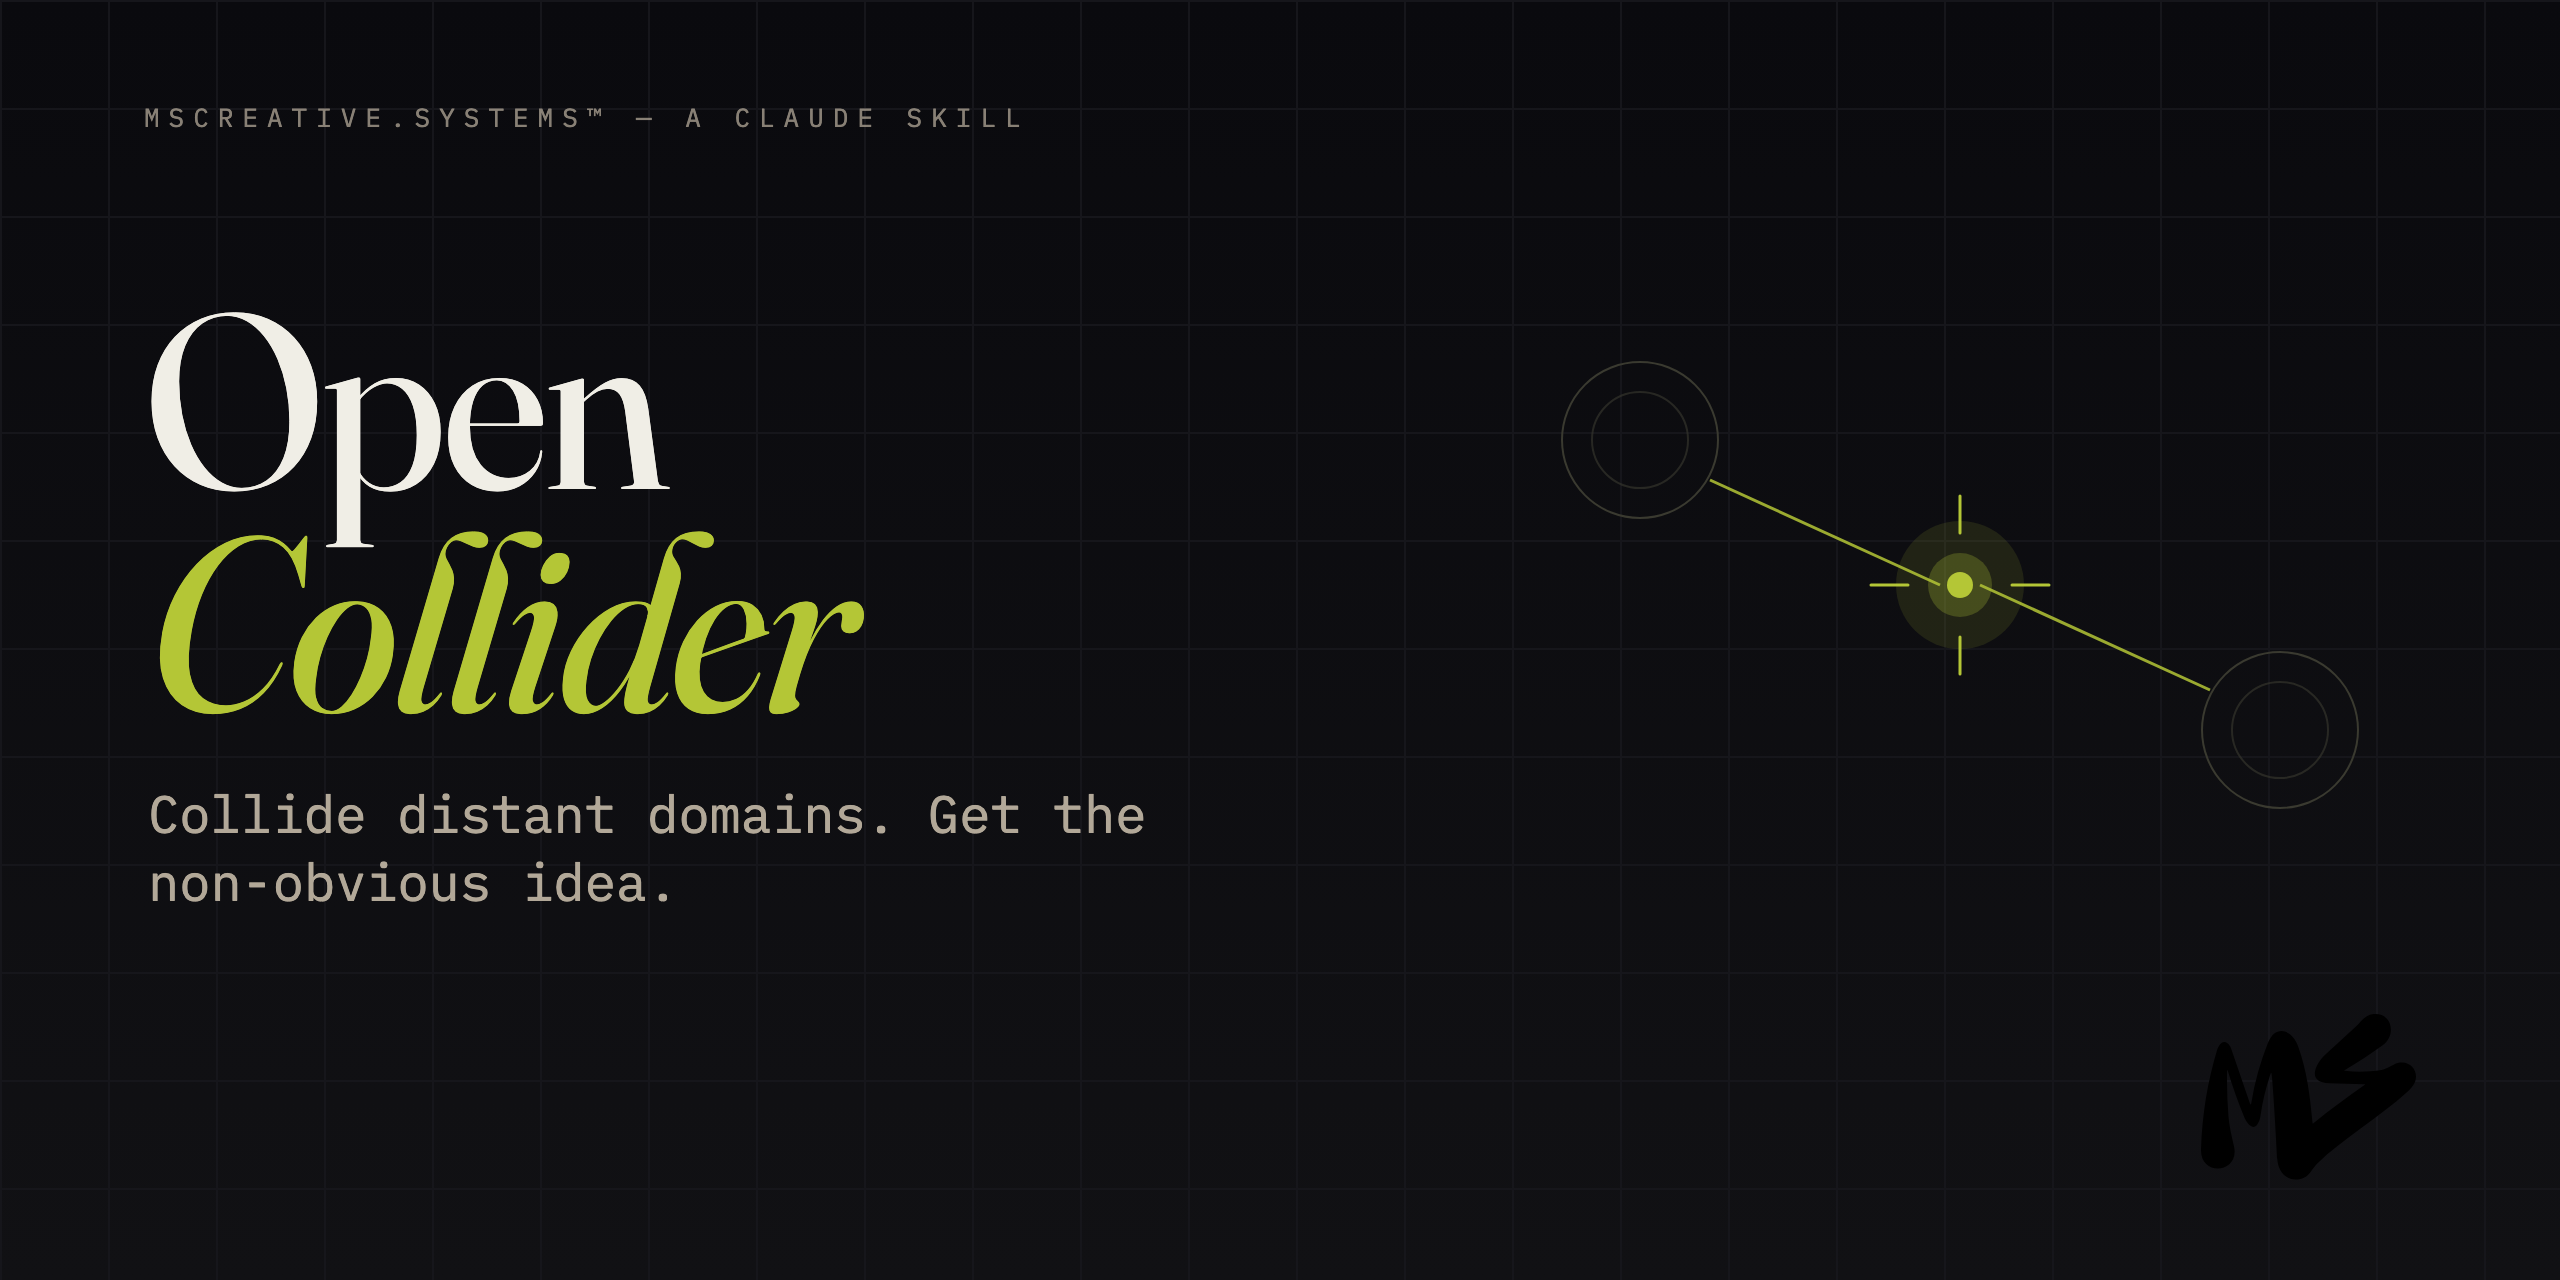
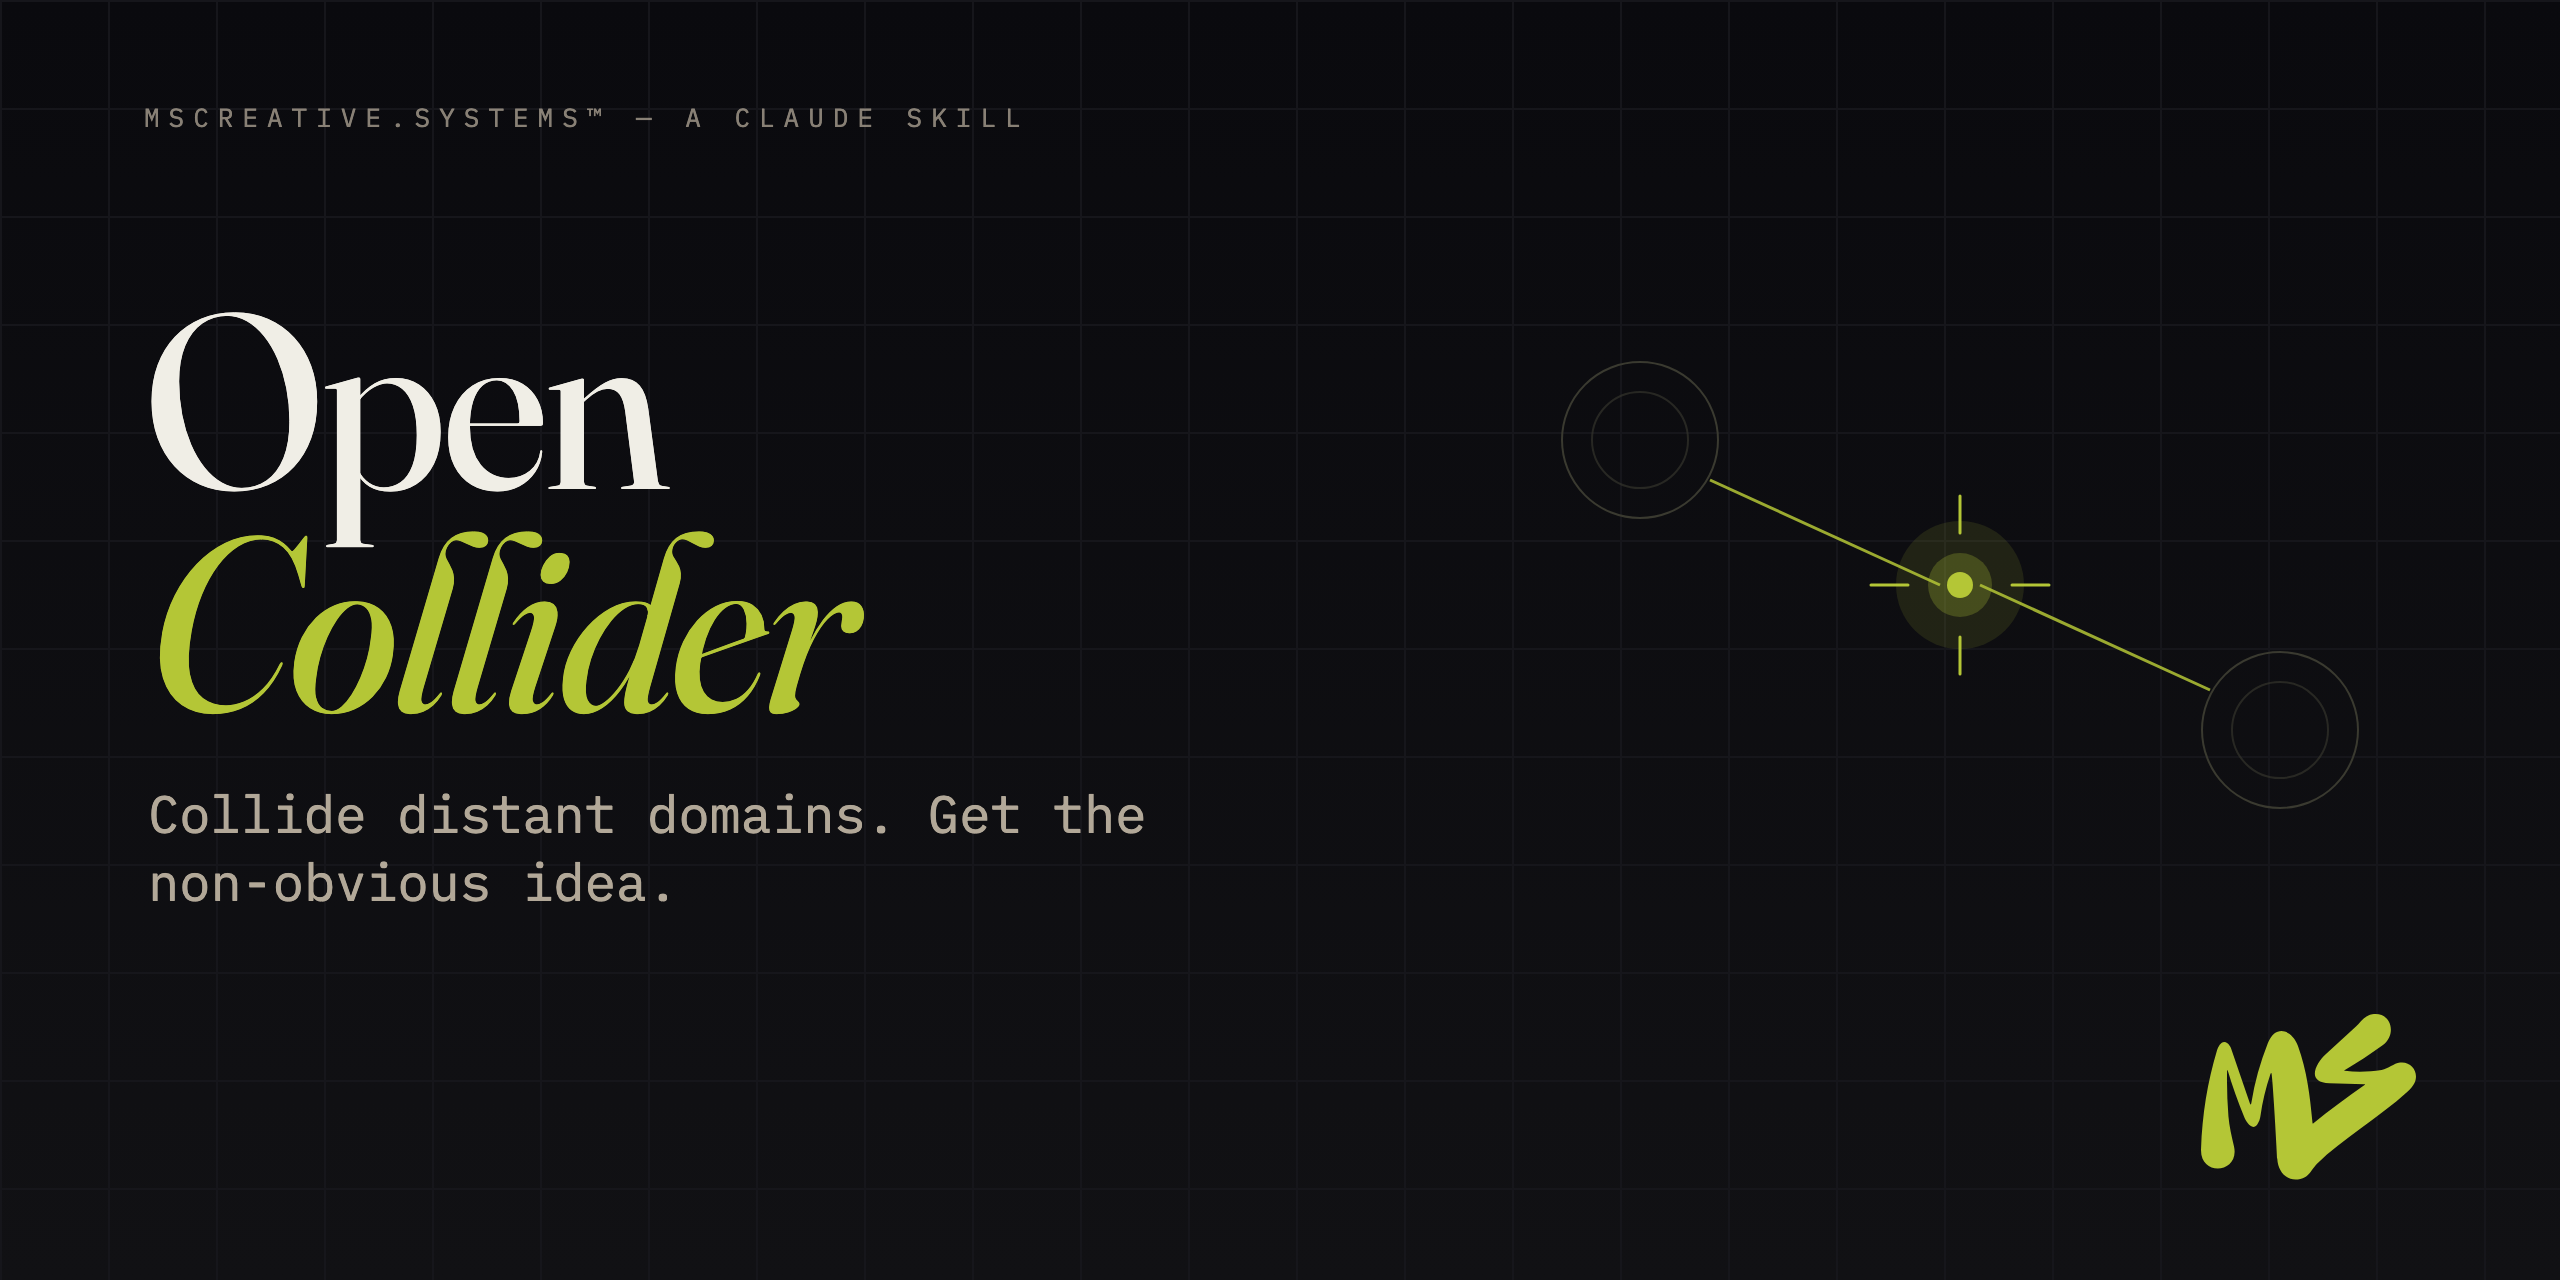
fix(social-preview): monogram now renders lime (fill=currentColor)
The monogram path carried class="d" whose fill:currentColor lived in a
<style> block that got stripped on inline; it fell back to black. Set
fill="currentColor" directly so it picks up the lime accent.

Changed region(s): [[0.8438, 0.7812, 0.9375, 0.9375]]

diff --git a/assets/social-preview.html b/assets/social-preview.html
@@ -37,5 +37,5 @@ background-size:108px 108px,108px 108px,100% 100%;}
     </g>
   </g>
 </svg>
-<svg class="monogram" viewBox="0 0 67.19667 51.75458" xmlns="http://www.w3.org/2000/svg" aria-label="MS"><path class="d" d="M8.15479,17.66986c-.10727,4.76875.03115,9.5285.41527,14.27922.25365,3.1651,1.03955,6.29608,1.74645,9.47888C12.17932,49.84272-.28837,51.03399.0051,42.2846c.35921-10.7694,2.02753-21.07894,5.00492-30.92856.43105-1.41773,1.65413-3.47677,3.2464-2.21435.53746.42306.92911.9969,1.17496,1.72154l5.78538,16.91602c.23584.68769.41046.67353.52387-.04254,1.02383-6.35386,2.74577-12.56867,5.16579-18.64433,2.42341-6.08573,7.57839-4.14271,9.40284.91599,2.77922,7.71993,3.71882,15.26481,4.54493,24.0988.01976.18583.11541.20673.28695.06271,5.16382-4.20649,10.48613-8.20113,15.96693-11.98388.2477-.17071.22158-.25977-.07835-.26709-3.61598-.09368-7.23981-.18066-10.87148-.26095-7.39821-.16475-4.36055-6.1619-1.09576-9.14847,3.1263-2.86316,6.25148-5.72857,9.37556-8.59623,1.40786-1.29146,2.61261-3.41267,5.0914-3.82386,5.89972-.9766,7.89921,6.29685,3.23346,9.68677-3.83797,2.79228-7.80539,5.39743-11.90226,7.81541-.15464.09367-.14189.15021.03827.16962,3.88277.43335,7.73249.3423,11.54916-.27318,2.22015-.35804,3.71273-2.03541,5.76647-2.29809,3.64903-.46082,6.04224,3.15361,4.51287,6.37544-.40245.85424-1.13742,1.76487-2.20492,2.73191-9.11467,8.26941-20.20634,14.6041-28.33323,22.56665-1.08504,1.06379-2.30373,3.42673-3.57933,4.09058-4.6234,2.39615-8.52986-.9142-8.76183-5.62878-.18359-3.7576-1.48526-26.94142-1.86815-26.88513-.09989.01549-.20829.14727-.27434.33352-1.46726,4.3048-2.51335,8.71175-3.13827,13.2209-.12499.90632-.43616,1.72773-.9335,2.46426-1.56103,2.29841-3.54903-.8048-4.06681-2.08179-2.07112-5.11908-3.79413-9.98508-5.16903-14.59797-.02544-.08589-.07445-.14821-.12558-.15976l-.05874-.0085c-.02576-.00602-.05156.01476-.05761.04636-.00077.00405-.00119.00814-.00126.01226l-.00003-.00003Z"/></svg>
+<svg class="monogram" viewBox="0 0 67.19667 51.75458" xmlns="http://www.w3.org/2000/svg" aria-label="MS"><path fill="currentColor" d="M8.15479,17.66986c-.10727,4.76875.03115,9.5285.41527,14.27922.25365,3.1651,1.03955,6.29608,1.74645,9.47888C12.17932,49.84272-.28837,51.03399.0051,42.2846c.35921-10.7694,2.02753-21.07894,5.00492-30.92856.43105-1.41773,1.65413-3.47677,3.2464-2.21435.53746.42306.92911.9969,1.17496,1.72154l5.78538,16.91602c.23584.68769.41046.67353.52387-.04254,1.02383-6.35386,2.74577-12.56867,5.16579-18.64433,2.42341-6.08573,7.57839-4.14271,9.40284.91599,2.77922,7.71993,3.71882,15.26481,4.54493,24.0988.01976.18583.11541.20673.28695.06271,5.16382-4.20649,10.48613-8.20113,15.96693-11.98388.2477-.17071.22158-.25977-.07835-.26709-3.61598-.09368-7.23981-.18066-10.87148-.26095-7.39821-.16475-4.36055-6.1619-1.09576-9.14847,3.1263-2.86316,6.25148-5.72857,9.37556-8.59623,1.40786-1.29146,2.61261-3.41267,5.0914-3.82386,5.89972-.9766,7.89921,6.29685,3.23346,9.68677-3.83797,2.79228-7.80539,5.39743-11.90226,7.81541-.15464.09367-.14189.15021.03827.16962,3.88277.43335,7.73249.3423,11.54916-.27318,2.22015-.35804,3.71273-2.03541,5.76647-2.29809,3.64903-.46082,6.04224,3.15361,4.51287,6.37544-.40245.85424-1.13742,1.76487-2.20492,2.73191-9.11467,8.26941-20.20634,14.6041-28.33323,22.56665-1.08504,1.06379-2.30373,3.42673-3.57933,4.09058-4.6234,2.39615-8.52986-.9142-8.76183-5.62878-.18359-3.7576-1.48526-26.94142-1.86815-26.88513-.09989.01549-.20829.14727-.27434.33352-1.46726,4.3048-2.51335,8.71175-3.13827,13.2209-.12499.90632-.43616,1.72773-.9335,2.46426-1.56103,2.29841-3.54903-.8048-4.06681-2.08179-2.07112-5.11908-3.79413-9.98508-5.16903-14.59797-.02544-.08589-.07445-.14821-.12558-.15976l-.05874-.0085c-.02576-.00602-.05156.01476-.05761.04636-.00077.00405-.00119.00814-.00126.01226l-.00003-.00003Z"/></svg>
 </body></html>